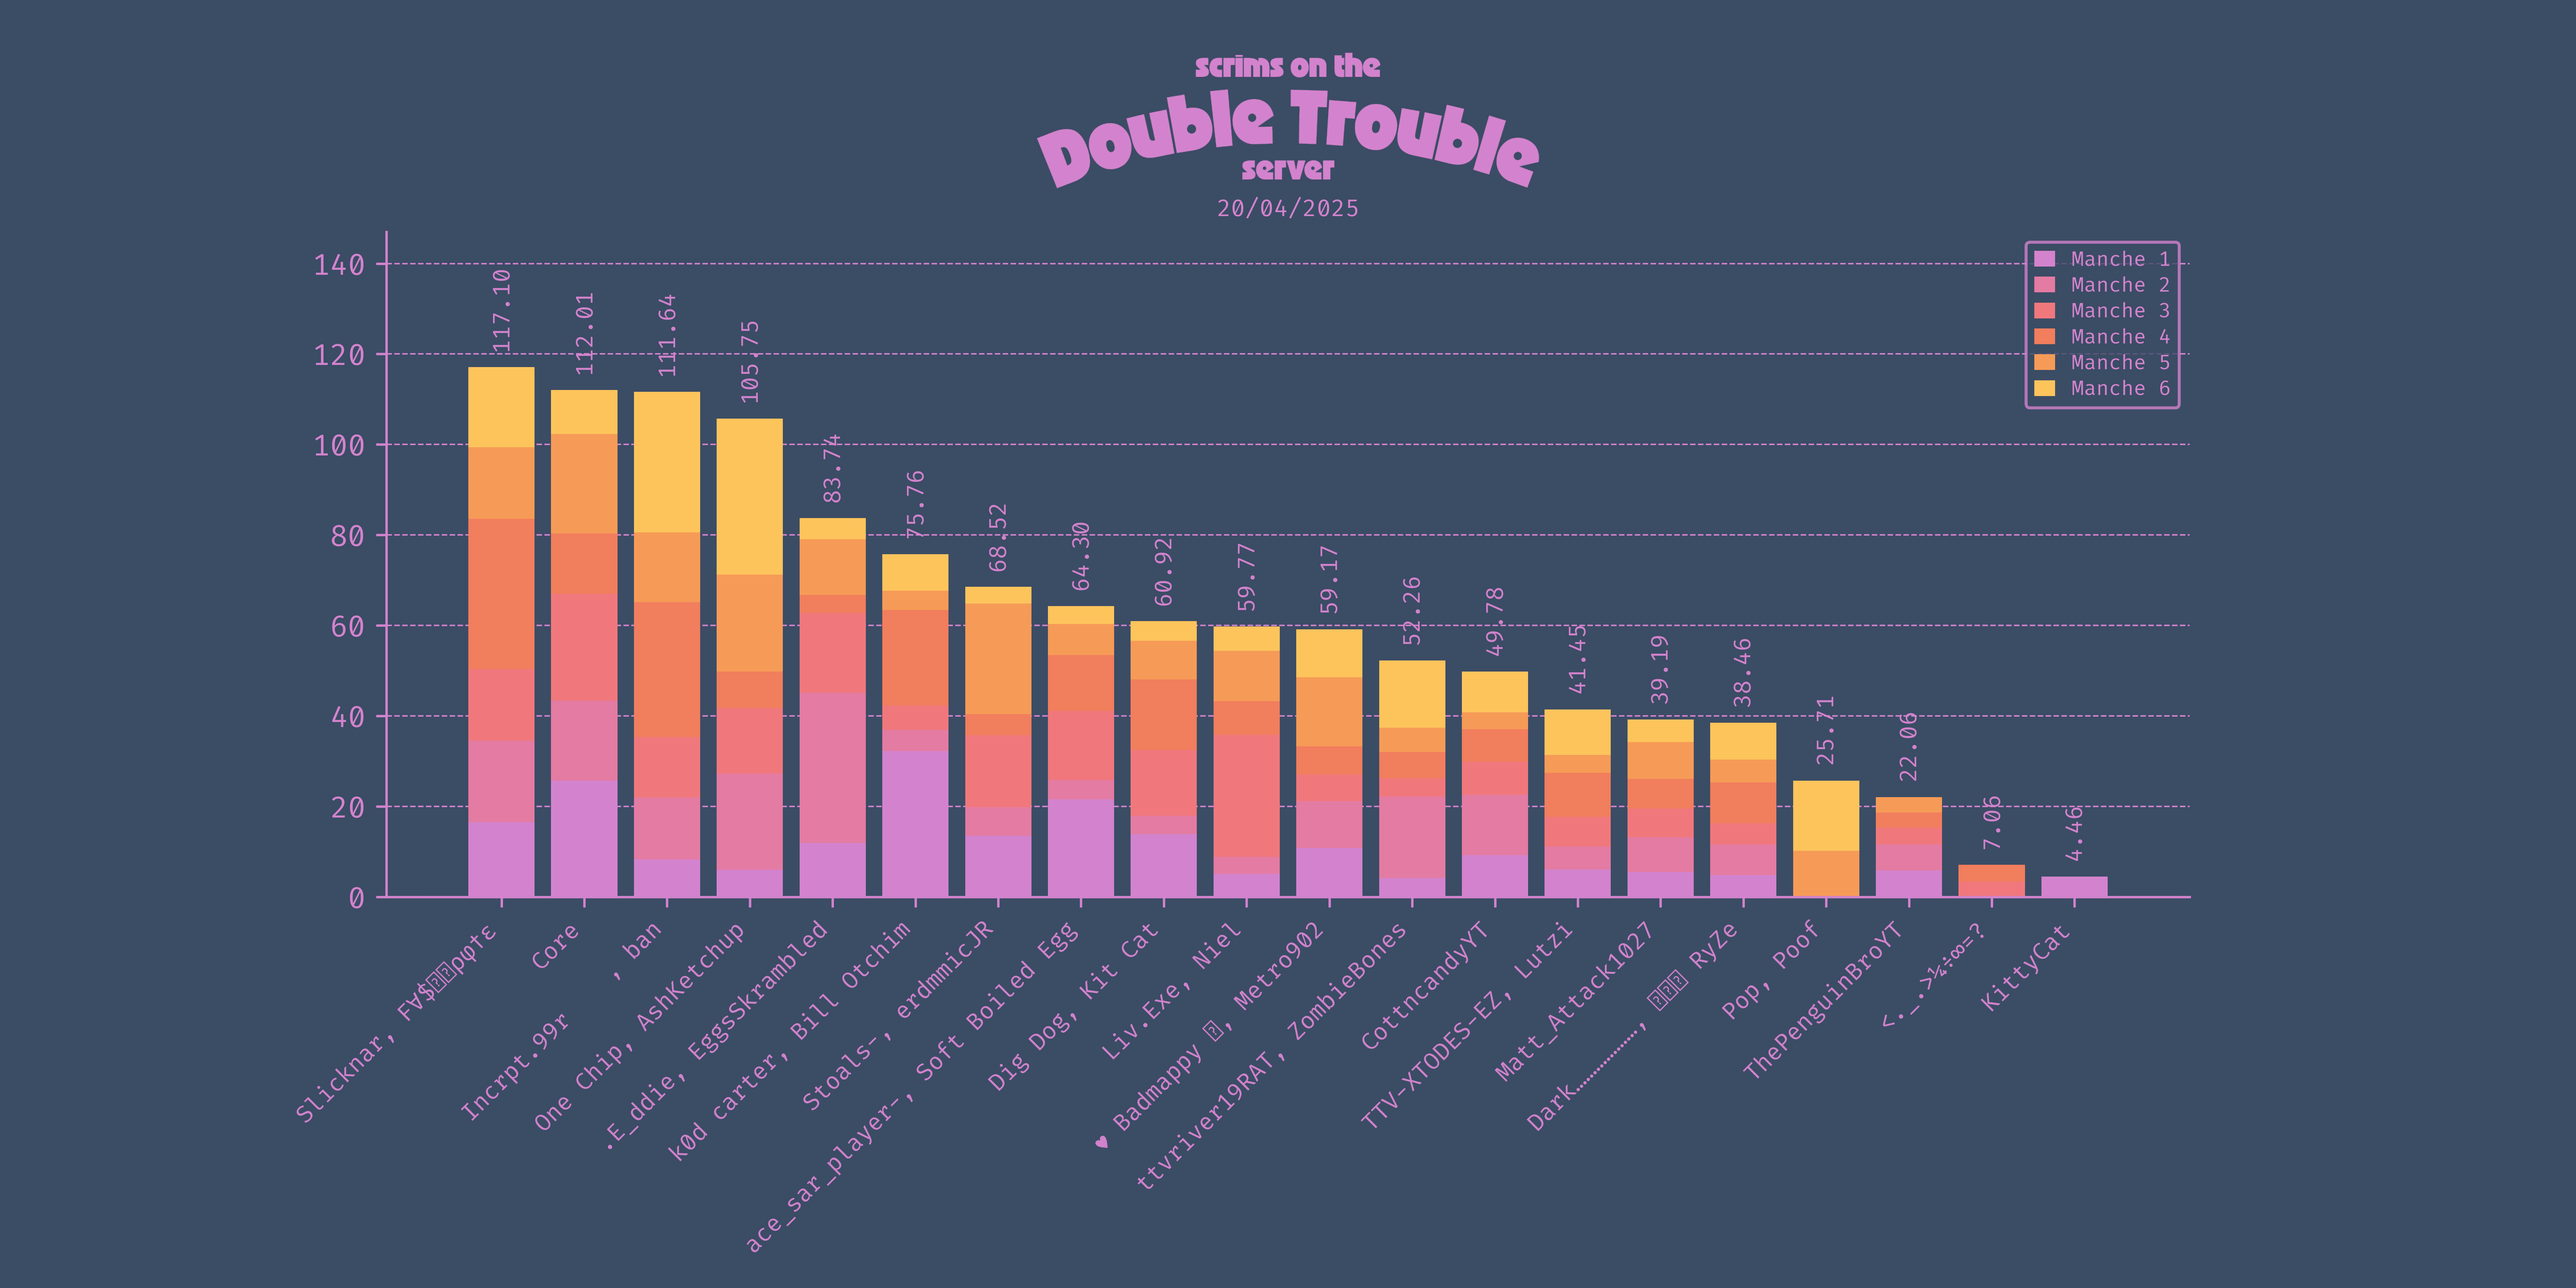
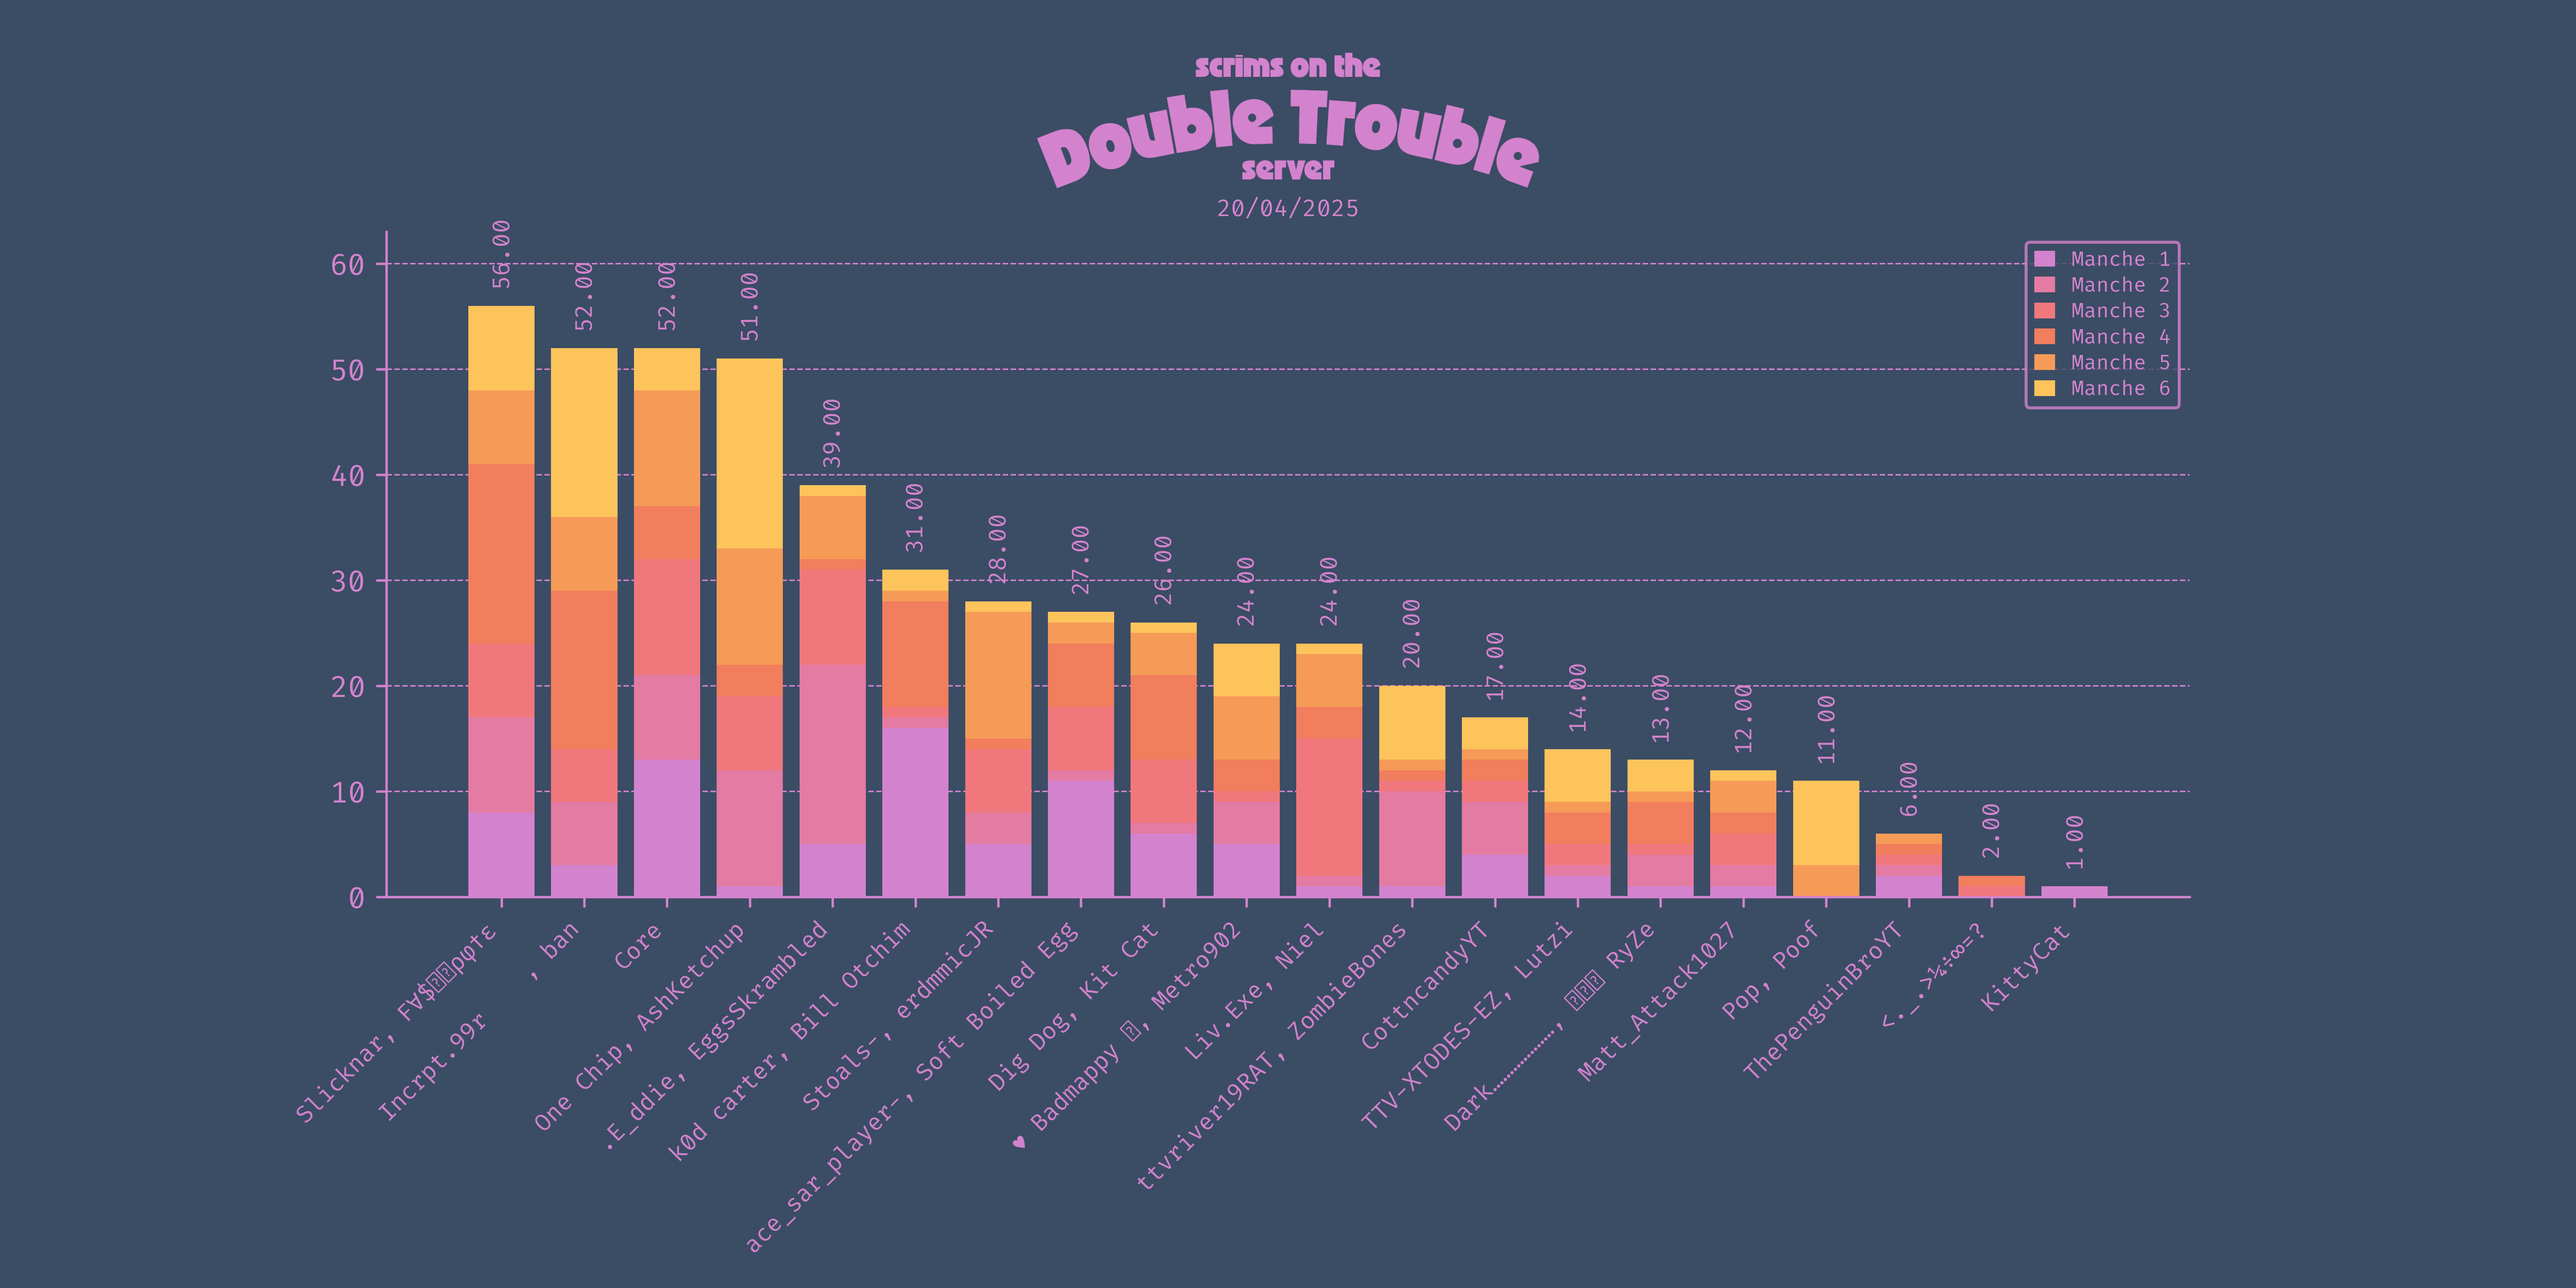
edit some scoring functions

diff --git a/SPC_scoring/chaos_catfe.py b/SPC_scoring/chaos_catfe.py
@@ -10,35 +10,21 @@ def kill_points(placement, kills, total_players):  # Define how kills award poin
         return kills
 "-----------------------------------------------------------------------------"
 
-def placement_points(placement, kills, total_players):  # Define how placement awards points
+def placement_points(placement, kills, total_players): # Define how the placement awards points
     # placement, kills, total_players -> int
 
     if placement == 0 or placement == -1:
         return 0  # This one either!
-    
+
     else:
-        if placement == 1:
-            return 10
-        elif placement == 2:
-            return 9
-        elif placement == 3:
-            return 8
-        elif 4 <= placement <= 5:
-            return 7
-        elif 6 <= placement <= 7:
-            return 6
-        elif 8 <= placement <= 9:
-            return 5
-        elif 10 <= placement <= 11:
-            return 4
-        elif 12 <= placement <= 14:
-            return 3
-        elif 15 <= placement <= 18:
-            return 2
-        elif 19 <= placement <= 20:
-            return 1
-        else:
-            return 0
+        if placement==1 : return 10
+        if placement==2 : return 8
+        if placement==3 : return 7
+        if placement>=4 and placement<=5 : return 5
+        if placement>=6 and placement<=10 : return 3
+        if placement>=11 and placement<=20 : return 1
+        if placement>=21 : return 0
+
 "-----------------------------------------------------------------------------"
 
 def masterkill(presence_de_masterkill, kills, total_players):  # Define how many points the Masterkill awards
@@ -46,6 +32,6 @@ def masterkill(presence_de_masterkill, kills, total_players):  # Define how many
     # total_players -> int
 
     if presence_de_masterkill:
-        return 5
+        return 0
     else:
         return 0

diff --git a/SPC_scoring/double_trouble.py b/SPC_scoring/double_trouble.py
@@ -31,7 +31,7 @@ def placement_points(placement, kills, total_players):  # Define how placement a
             return 0
 "-----------------------------------------------------------------------------"
 
-def masterkill(presence_de_masterkill, total_players):  # Define how many points the Masterkill awards
+def masterkill(presence_de_masterkill, kills, total_players):  # Define how many points the Masterkill awards
     # presence_de_masterkill -> bool
     # total_players -> int
 

diff --git a/SPC_scoring/trio_troubles.py b/SPC_scoring/trio_troubles.py
@@ -33,7 +33,7 @@ def placement_points(placement, kills, total_players):  # Define how placement a
             return 0
 "-----------------------------------------------------------------------------"
 
-def masterkill(presence_de_masterkill, total_players):  # Define how many points the Masterkill awards
+def masterkill(presence_de_masterkill, kills, total_players):  # Define how many points the Masterkill awards
     # presence_de_masterkill -> bool
     # total_players -> int
 

diff --git a/SPC_scoring/wheel_of_guns.py b/SPC_scoring/wheel_of_guns.py
@@ -31,7 +31,7 @@ def placement_points(placement, kills, total_players):  # Define how placement a
             return 0
 "-----------------------------------------------------------------------------"
 
-def masterkill(presence_de_masterkill, total_players):  # Define how many points the Masterkill awards
+def masterkill(presence_de_masterkill, kills, total_players):  # Define how many points the Masterkill awards
     # presence_de_masterkill -> bool
     # total_players -> int
 

diff --git a/SPC.py b/SPC.py
@@ -97,7 +97,7 @@ print("")
 # Type the name of the file containing the scoring system you want to use:
 # (The file must be in the SPC_scoring_presets folder.)
 
-from SPC_scoring.spi import kill_points, placement_points, masterkill
+from SPC_scoring.chaos_catfe import kill_points, placement_points, masterkill
 import inspect
 
 # It must be something like SPC_scoring_presets.name_of_the_file_without_the_extension
